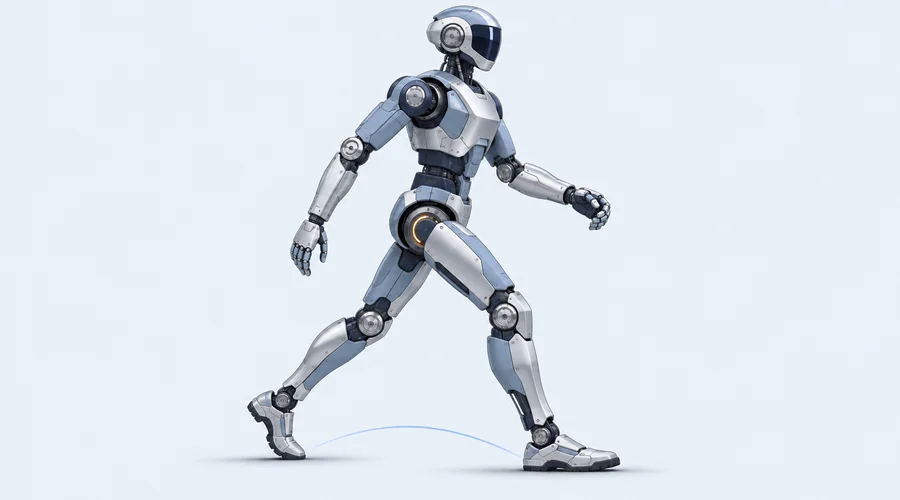
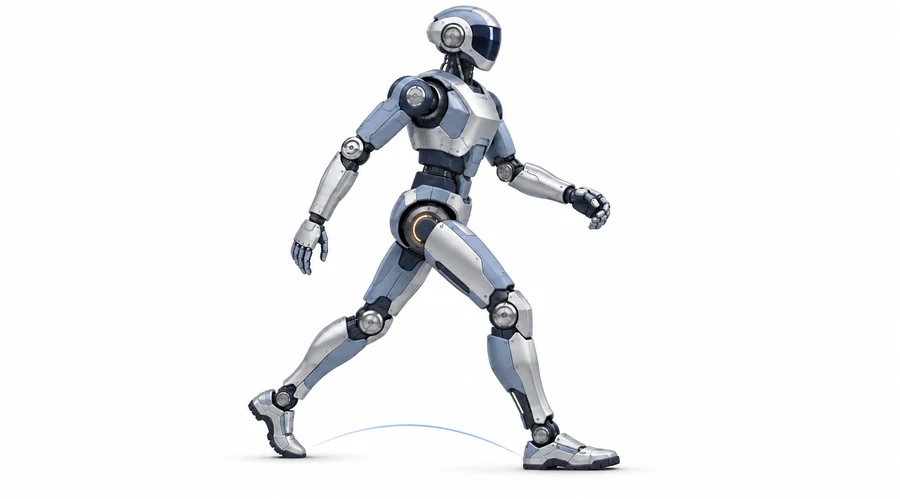
Simplify publication layout and use white illustrations

diff --git a/home.css b/home.css
@@ -159,108 +159,57 @@ body[data-page="home"] .container { width: calc(100% - clamp(32px,5vw,88px)); }
 .home-projects .project-entry-detail { left: 14px; }
 .home-projects .project-entry > .text-link { right: 14px; }
 .home-projects .project-entry > .text-link:hover { color: var(--accent-hover); text-decoration: underline; }
-.publication-topics { display: grid; gap: 16px; }
+.publication-topics { border-bottom: 1px solid var(--line); }
 .publication-topic, .publication-papers--standalone {
   min-width: 0;
-  border: 1px solid var(--line);
-  border-radius: var(--frame-radius);
-  background: var(--ground-paper);
-  overflow: hidden;
+  border-top: 1px solid var(--line);
+  padding-block: clamp(14px,1.3vw,22px);
 }
 .publication-topic {
   display: grid;
-  grid-template-columns: clamp(230px, 23%, 338px) minmax(0, 1fr);
+  grid-template-columns: clamp(168px,17vw,224px) minmax(0,1fr);
+  align-items: start;
+  gap: clamp(16px,2.5vw,42px);
 }
 .publication-topic-visual {
-  display: flex;
-  flex-direction: column;
-  justify-content: center;
-  align-items: stretch;
-  gap: 10px;
-  min-width: 0;
-  padding: clamp(14px,1.65vw,24px);
-  border-right: 1px solid var(--line);
-  background: var(--ground-muted);
-}
-.publication-topic-header {
-  display: flex;
-  flex-wrap: wrap;
-  justify-content: space-between;
-  align-items: center;
-  min-width: 0;
-  gap: 2px 8px;
-}
-.publication-topic-header h3 { margin: 0; font-size: clamp(16px,1.4vw,19px); font-weight: 650; line-height: 1.4; }
-.publication-topic-links { display: flex; flex-wrap: wrap; gap: 4px; }
-.publication-topic-links a {
   display: grid;
-  place-items: center;
-  min-width: 44px;
-  min-height: 44px;
-  border-radius: var(--radius);
-  color: var(--accent);
-  font-size: 13px;
-  font-variant-numeric: tabular-nums;
-  font-weight: 650;
-  background: #fff;
-  border: 1px solid var(--line);
+  gap: 6px;
+  min-width: 0;
 }
-.publication-topic-links a:hover { background: var(--pale); border-color: var(--accent-line); }
-.publication-topic-links a:focus-visible { outline-offset: 2px; }
+.publication-topic-visual h3 { margin: 0; color: var(--accent); font-size: clamp(15px,1.15vw,17px); font-weight: 650; line-height: 1.45; }
 .publication-topic-art {
   display: block;
   width: 100%;
   height: auto;
-  border: 1px solid var(--line);
-  border-radius: var(--radius);
-  background: var(--ground-muted);
 }
-.publication-papers { min-width: 0; display: grid; }
-.home-paper-card {
-  min-width: 0;
-  display: grid;
-  grid-template-columns: 34px minmax(0,1fr);
-  align-content: center;
-  align-items: start;
-  gap: clamp(10px,1.25vw,20px);
-  padding: clamp(16px,1.65vw,26px);
-}
-.home-paper-card + .home-paper-card { border-top: 1px solid var(--line); }
-.home-paper-card:target { background: var(--pale); box-shadow: inset 3px 0 var(--accent); }
-.home-paper-index { display: grid; place-items: center; aspect-ratio: 1; border-radius: var(--radius); background: var(--pale); color: var(--accent); font-size: 13px; font-weight: 650; font-variant-numeric: tabular-nums; }
+.publication-papers { min-width: 0; }
+.home-paper-card + .home-paper-card { margin-top: 12px; padding-top: 12px; border-top: 1px solid var(--line); }
+.home-paper-card:target { outline: 2px solid var(--accent-line); outline-offset: 4px; }
 .home-paper-body { min-width: 0; }
 .home-paper-title {
   margin: 0;
   color: var(--ink);
-  font-size: clamp(17px,1.4vw,22px);
+  font-size: clamp(16px,1.35vw,20px);
   font-weight: 650;
   line-height: 1.4;
   overflow-wrap: anywhere;
   text-wrap: pretty;
 }
-.home-paper-title-zh { margin: 6px 0 0; color: var(--muted); font-size: clamp(14px,1.2vw,17px); line-height: 1.65; overflow-wrap: anywhere; }
-.home-paper-title-link { color: inherit; text-decoration: underline; text-decoration-color: var(--accent-line); text-underline-offset: 4px; transition: color .2s,text-decoration-color .2s; }
-.home-paper-title-link:hover { color: var(--accent); text-decoration-color: currentColor; }
+.home-paper-title-zh { margin: 4px 0 0; color: var(--muted); font-size: clamp(14px,1.05vw,16px); line-height: 1.6; overflow-wrap: anywhere; }
+.home-paper-title-link { color: inherit; text-underline-offset: 4px; transition: color .2s; }
+.home-paper-title-link:hover { color: var(--accent); text-decoration: underline; }
 .home-paper-title-link > span[aria-hidden] { white-space: nowrap; }
 .home-paper-title-link .icon { display: inline-block; width: 16px; height: 16px; vertical-align: -2px; color: var(--accent); }
-.home-paper-details { display: flex; flex-wrap: wrap; align-items: baseline; gap: 5px 12px; margin-top: 10px; color: var(--muted); font-size: 13px; }
-.home-paper-type { padding: 2px 8px; border-radius: var(--radius); background: var(--pale); color: var(--accent); font-weight: 650; }
+.home-paper-details { display: flex; flex-wrap: wrap; align-items: baseline; gap: 4px 10px; margin-top: 6px; color: var(--muted); font-size: 13px; }
+.home-paper-type { color: var(--accent); font-weight: 650; }
 .home-paper-year { font-variant-numeric: tabular-nums; }
 @media (max-width: 700px) {
   .publication-topic { grid-template-columns: minmax(0,1fr); }
   .publication-topic-visual {
-    display: grid;
-    grid-template-columns: minmax(0,1fr) minmax(96px,42%);
+    grid-template-columns: minmax(0,1fr) minmax(96px,36%);
     align-items: center;
-    border-right: 0;
-    border-bottom: 1px solid var(--line);
   }
-  .publication-topic-header { display: grid; gap: 8px; }
-  .publication-topic-art { justify-self: end; max-width: 200px; }
-}
-@media (max-width: 540px) {
-  .home-paper-card { grid-template-columns: 26px minmax(0,1fr); padding: 14px; gap: 10px; }
-  .home-paper-index { font-size: 12px; }
+  .publication-topic-art { justify-self: end; max-width: 148px; }
 }
 
 .home-experience, .home-awards { padding-top: 30px; border-top: 1px solid var(--line); }

diff --git a/publications.js b/publications.js
@@ -25,7 +25,6 @@ function paperMarkup({paper,number}, heading, {e,icon}) {
   const url=safeUrl(paper.url)||(/^10\.\d{4,9}\/\S+$/i.test(doi)?`https://doi.org/${encodeURIComponent(doi)}`:'');
   const title=e(paper.title);
   return `<article class="home-paper-card" id="paper-${number}" tabindex="-1">
-    <span class="home-paper-index" aria-hidden="true">${number}</span>
     <div class="home-paper-body">
       <${heading} class="home-paper-title" lang="en">${url?`<a class="home-paper-title-link" href="${e(url)}" target="_blank" rel="noopener noreferrer">${title}<span aria-hidden="true"> ${icon('up')}</span><span class="sr-only">（在新标签页打开）</span></a>`:title}</${heading}>
       ${paper.titleZh?`<p class="home-paper-title-zh" lang="zh-CN">${e(paper.titleZh)}</p>`:''}
@@ -52,13 +51,9 @@ export function publicationsMarkup(data,{e,icon}) {
     const cards=entries.map(entry=>paperMarkup(entry,topic?'h4':'h3',{e,icon})).join('');
     if(!topic)return `<div class="publication-papers publication-papers--standalone">${cards}</div>`;
     const {name,art,alt}=topic;
-    const links=entries.map(({number})=>`<a href="#paper-${number}" aria-label="跳转到论文 ${number}">${number}</a>`).join('');
     return `<section class="publication-topic" aria-labelledby="publication-topic-${art}">
       <div class="publication-topic-visual">
-        <div class="publication-topic-header">
-          <h3 id="publication-topic-${art}">${name}</h3>
-          <div class="publication-topic-links">${links}</div>
-        </div>
+        <h3 id="publication-topic-${art}">${name}</h3>
         <img class="publication-topic-art" src="/portfolio/assets/research/${art}.webp" alt="${alt}" width="360" height="200" loading="lazy" decoding="async">
       </div>
       <div class="publication-papers">${cards}</div>
